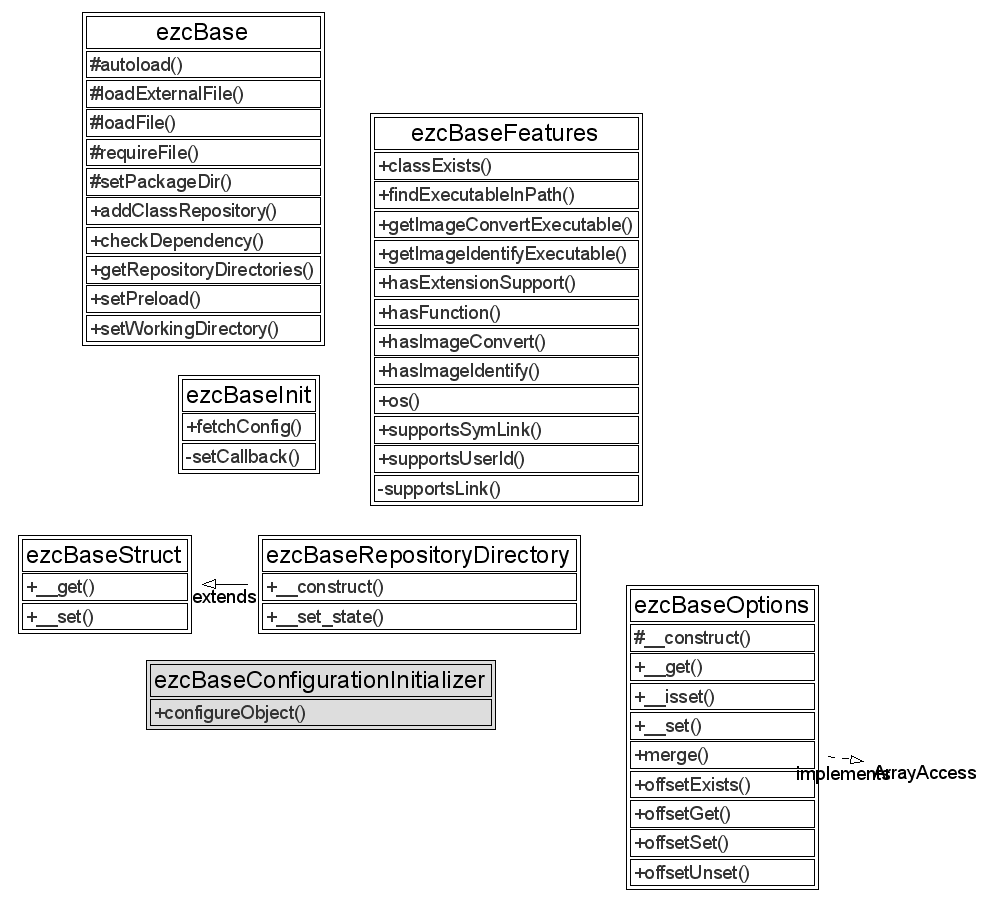
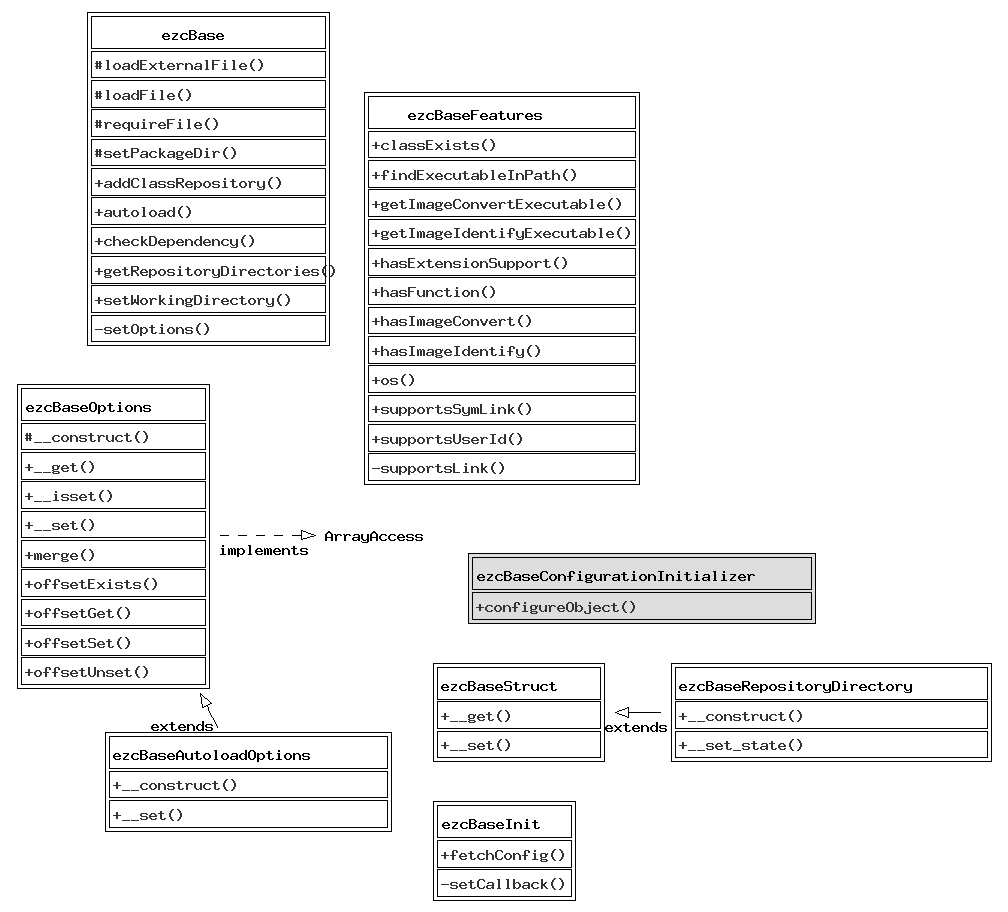
- Reimplement the on-switching of preloading to an option instead.
git-svn-id: https://svn.apache.org/repos/asf/incubator/zetacomponents/trunk@972553 13f79535-47bb-0310-9956-ffa450edef68

Changed region(s): [[0.0, 0.0, 0.997, 0.9945]]

diff --git a/Base/src/base.php b/Base/src/base.php
@@ -42,11 +42,6 @@ class ezcBase
     protected static $packageDir;
 
     /**
-     * @var string  Contains whether component preloading should be used, or not.
-     */
-    public static $preload = false;
-
-    /**
      * @var array(string=>array) Stores info with additional paths where
      *                           autoload files and classes for autoloading
      *                           could be found.  Each item of $repositoryDirs
@@ -71,6 +66,22 @@ class ezcBase
      *             is loaded, their files are added to this array.
      */
     protected static $externalAutoloadArray = array();
+
+    /**
+     * Options for the ezcBase class
+     * @var ezcBaseOptions
+     */
+    static private $options;
+
+    /**
+     * Associates an option object with this static class.
+     *
+     * @param ezcBaseAutoloadOptions $options
+     */
+    static public function setOptions( ezcBaseAutoloadOptions $options )
+    {
+        self::$options = $options;
+    }
 
     /**
      * Tries to autoload the given className. If the className could be found
@@ -231,7 +242,7 @@ class ezcBase
             {
                 // Add the array to the cache, and include the requested file.
                 ezcBase::$autoloadArray = array_merge( ezcBase::$autoloadArray, $array );
-                if ( ezcBase::$preload && !preg_match( '/Exception$/', $className ) )
+                if ( ezcBase::$options !== null && ezcBase::$options->preload && !preg_match( '/Exception$/', $className ) )
                 {
                     foreach ( $array as $loadClassName => $file )
                     {
@@ -532,19 +543,6 @@ class ezcBase
             // add info to the list of extra dirs, and use the prefix to identify the new repository.
             ezcBase::$repositoryDirs[$prefix] = array( 'basePath' => $basePath, 'autoloadDirPath' => $autoloadDirPath );
         }
-    }
-
-    /*
-     * Turns on component preloading.
-     * 
-     * If component preloading is enabled then as soon as one of the classes
-     * of a component is request, all other classes in the component are
-     * loaded as well (except for Exception classes).
-     */
-    public static function setPreload()
-    {
-        self::$preload = true;
-        self::autoload( 'ezcBase' );
     }
 }
 ?>

diff --git a/Base/src/options/autoload.php b/Base/src/options/autoload.php
@@ -1,0 +1,68 @@
+<?php
+/**
+ * File containing the ezcBaseAutoloadOptions class
+ *
+ * @package Base
+ * @version //autogen//
+ * @copyright Copyright (C) 2005-2007 eZ systems as. All rights reserved.
+ * @license http://ez.no/licenses/new_bsd New BSD License
+ */
+
+/**
+ * Class containing the basic options for ezcBase' autoload.
+ *
+ * @property bool $preload
+ *           If component preloading is enabled then as soon as one of the
+ *           classes of a component is request, all other classes in the
+ *           component are loaded as well (except for Exception classes).
+ *
+ * @package Base
+ * @version //autogen//
+ */
+class ezcBaseAutoloadOptions extends ezcBaseOptions
+{
+    /**
+     * Constructs an object with the specified values.
+     *
+     * @throws ezcBasePropertyNotFoundException
+     *         if $options contains a property not defined
+     * @throws ezcBaseValueException
+     *         if $options contains a property with a value not allowed
+     * @param array(string=>mixed) $options
+     */
+    public function __construct( array $options = array() )
+    {
+        $this->preload = false;
+
+        parent::__construct( $options );
+    }
+
+    /**
+     * Sets the option $name to $value.
+     *
+     * @throws ezcBasePropertyNotFoundException
+     *         if the property $name is not defined
+     * @throws ezcBaseValueException
+     *         if $value is not correct for the property $name
+     * @param string $name
+     * @param mixed $value
+     * @ignore
+     */
+    public function __set( $name, $value )
+    {
+        switch ( $name )
+        {
+            case 'preload':
+                if ( !is_bool( $value ) )
+                {
+                    throw new ezcBaseValueException( $name, $value, 'bool' );
+                }
+                $this->properties[$name] = $value;
+                break;
+
+            default:
+                throw new ezcBasePropertyNotFoundException( $name );
+        }
+    }
+}
+?>

diff --git a/Base/src/base_autoload.php b/Base/src/base_autoload.php
@@ -26,12 +26,13 @@ return array(
     'ezcBaseSettingValueException'                => 'Base/exceptions/setting_value.php',
     'ezcBaseValueException'                       => 'Base/exceptions/value.php',
     'ezcBaseWhateverException'                    => 'Base/exceptions/whatever.php',
+    'ezcBaseOptions'                              => 'Base/options.php',
     'ezcBaseStruct'                               => 'Base/struct.php',
     'ezcBase'                                     => 'Base/base.php',
+    'ezcBaseAutoloadOptions'                      => 'Base/options/autoload.php',
     'ezcBaseConfigurationInitializer'             => 'Base/interfaces/configuration_initializer.php',
     'ezcBaseFeatures'                             => 'Base/features.php',
     'ezcBaseInit'                                 => 'Base/init.php',
-    'ezcBaseOptions'                              => 'Base/options.php',
     'ezcBaseRepositoryDirectory'                  => 'Base/structs/repository_directory.php',
 );
 ?>
